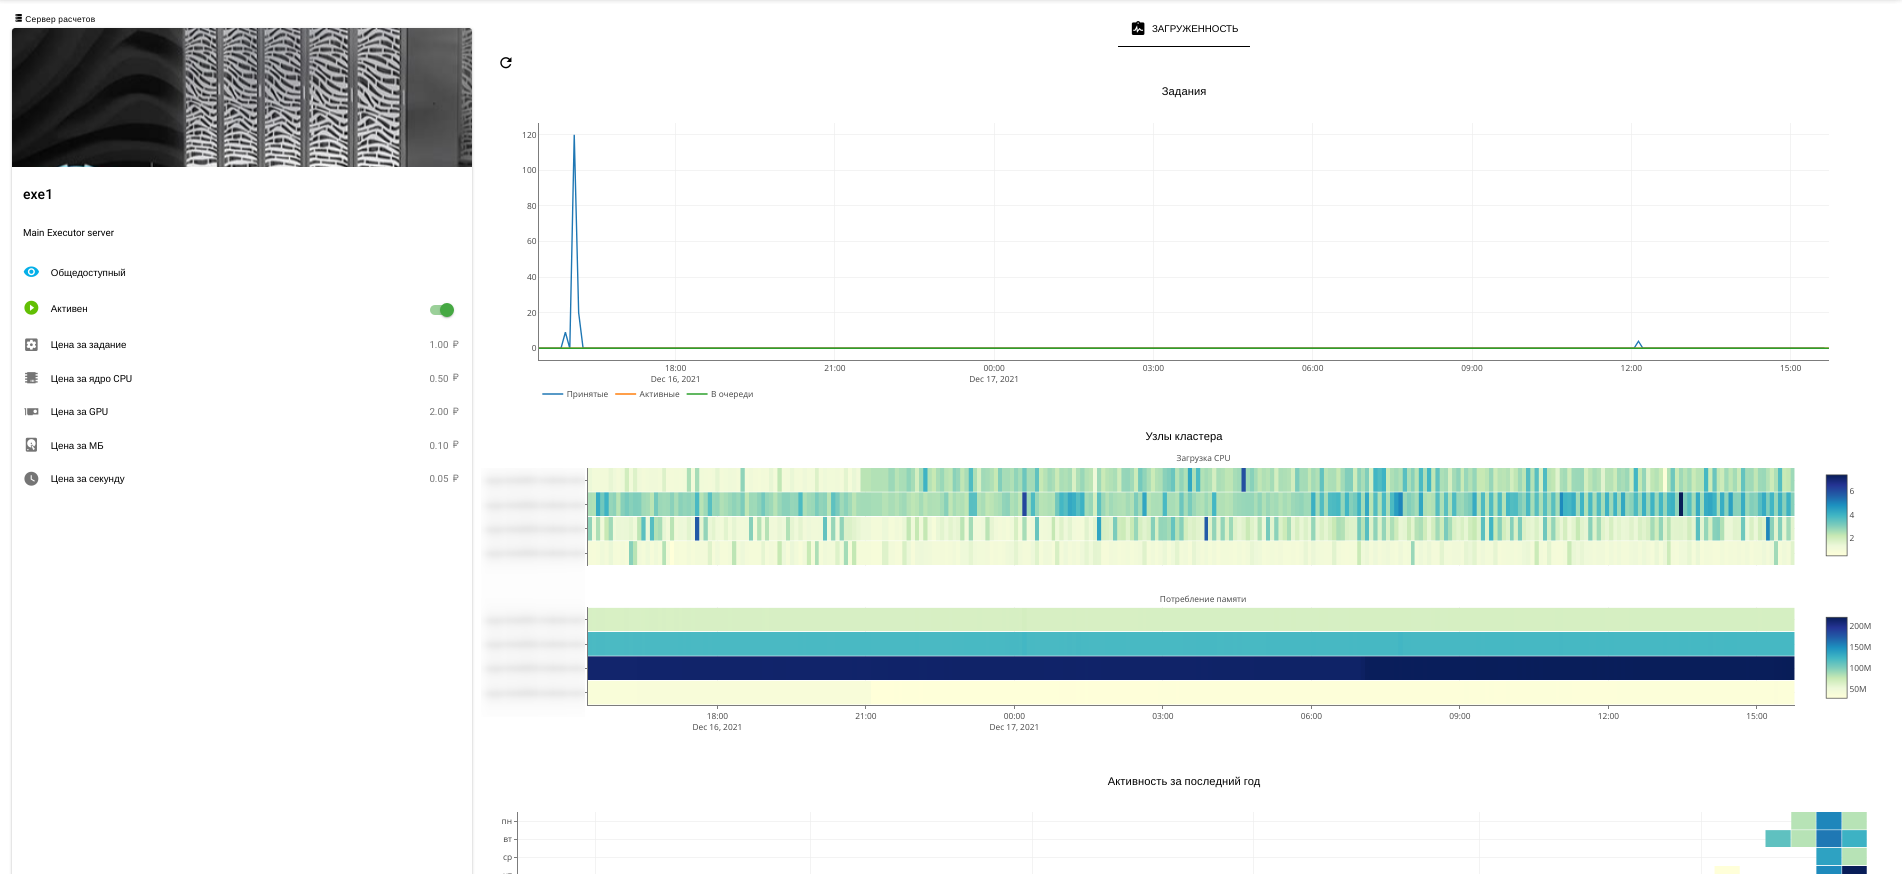
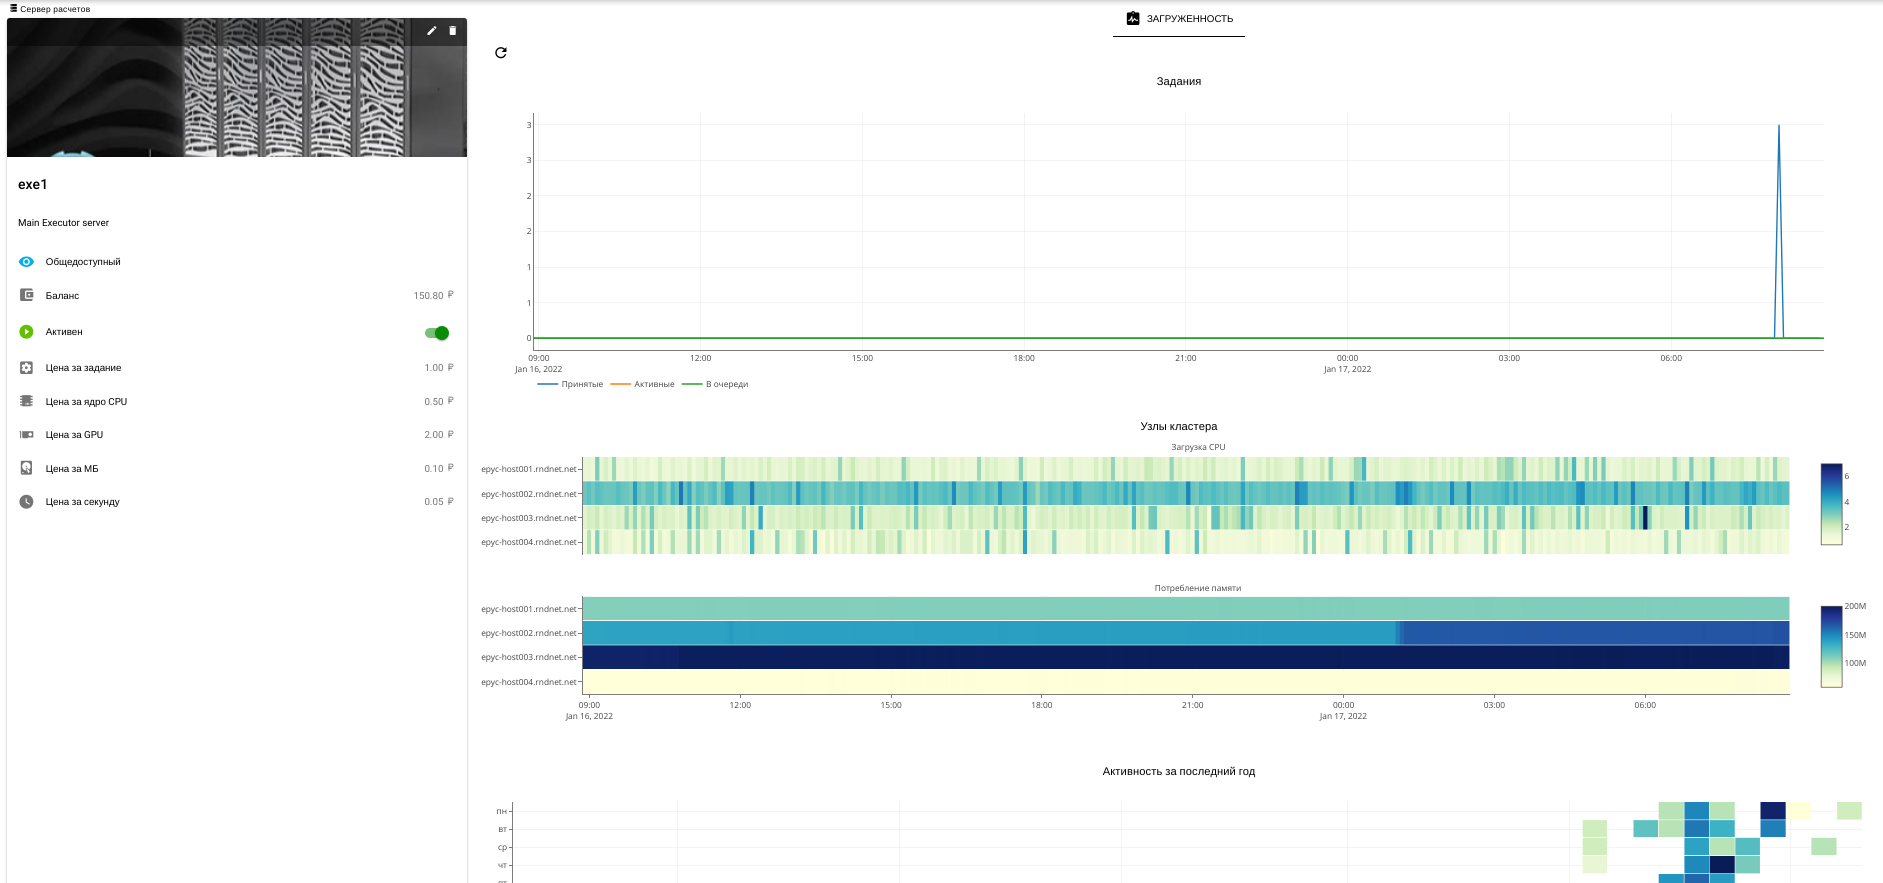
Add executor balance info

diff --git a/src/desc/executor.md b/src/desc/executor.md
@@ -27,6 +27,10 @@
 - Название
 - Описание
 - <span class='iconify-inline' data-icon='mdi:eye' style="color: blue"></span> Общедоступность сервера
+- <span class='iconify-inline' data-icon='mdi:wallet'></span> Баланс - баланс [счета][1]
+
+  При нажатии происходит открытие окна [баланса](#баланс) сервера.
+
 - <span class='iconify-inline' data-icon='mdi:play-circle' style="color: green"></span> Статус
 - Цена за задание - стоимость выполнения одного задания
 - Цена за ядро CPU - стоимость использования ядра CPU
@@ -42,3 +46,36 @@
 - <span class='iconify-inline' data-icon='mdi:stop-circle' style="color: red"></span> Выключен
 
 <br clear="right"/>
+
+## Баланс
+
+Окно баланса сервера расчтетов отображает баланс [счета][1] и список [транзакций][2] по вводу и выводу средств на счет.
+
+![Executor balance](/images/common/executor_balance.png)
+
+Структура:
+
+- Панель описания
+
+  - Изображение сервера
+  - Имя-ссылка сервера
+  - <span class='iconify-inline' data-icon='mdi:wallet'></span> Баланс - баланс счета
+  - Кнопка "ВЫВЕСТИ" - кнопка вывода средств на счет владельца
+
+- Панель транзакций
+  - Панель инструментов
+    - <span class='iconify-inline' data-icon='mdi:calendar-range'></span> Период
+    - <span class='iconify-inline' data-icon='mdi:refresh'></span> Кнопка обновления
+  - Таблица транзакций
+    - Создано - дата осуществления транзакции
+    - Назначение - тип транзакции
+    - Контрагент - контрагент транзакции
+    - Сумма - сумма транзакции
+  - Панель навигации
+
+После нажатия на кнопку **ВЫВЕСТИ** можно осуществить вывод средств на счет владельца сервера.
+
+![Executor balance out](/images/common/executor_balance_out.png)
+
+[1]: /docs/desc/finance.md#cчета
+[2]: /docs/desc/finance.md#транзакции
